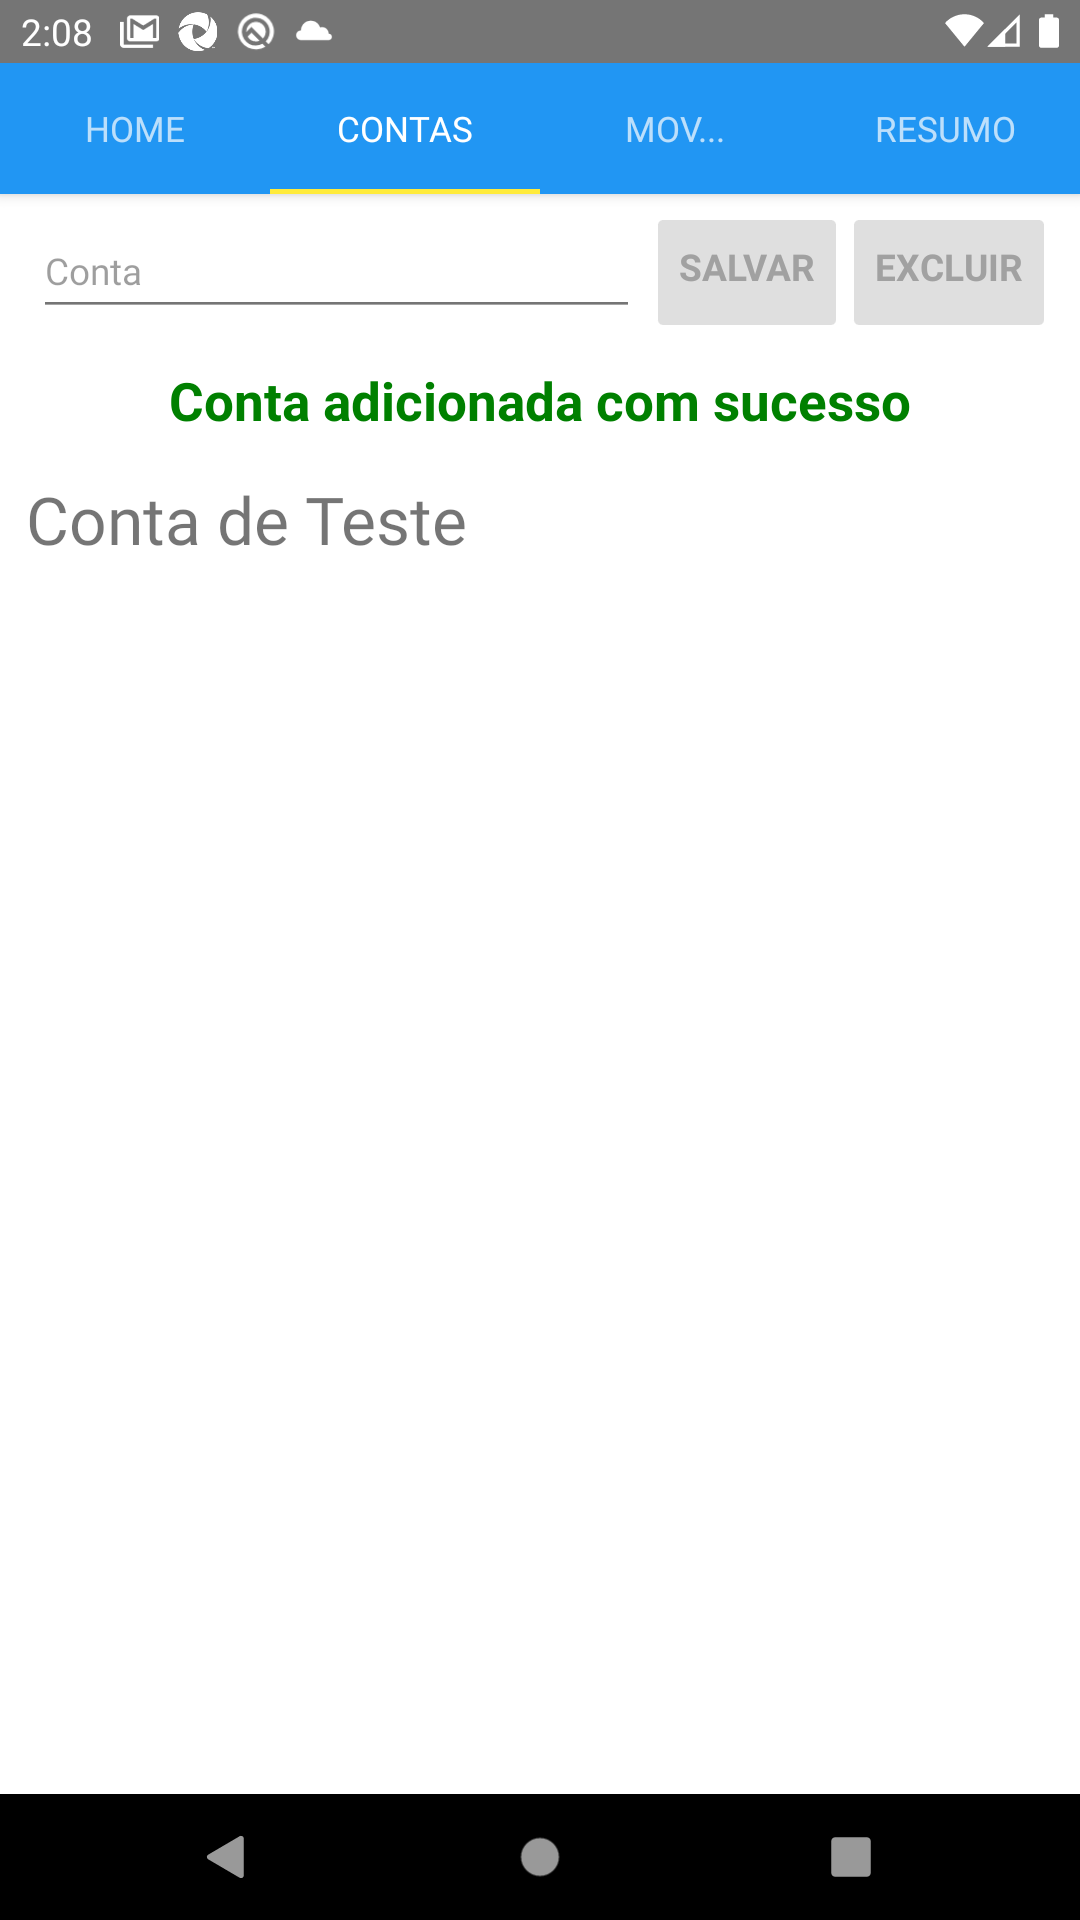
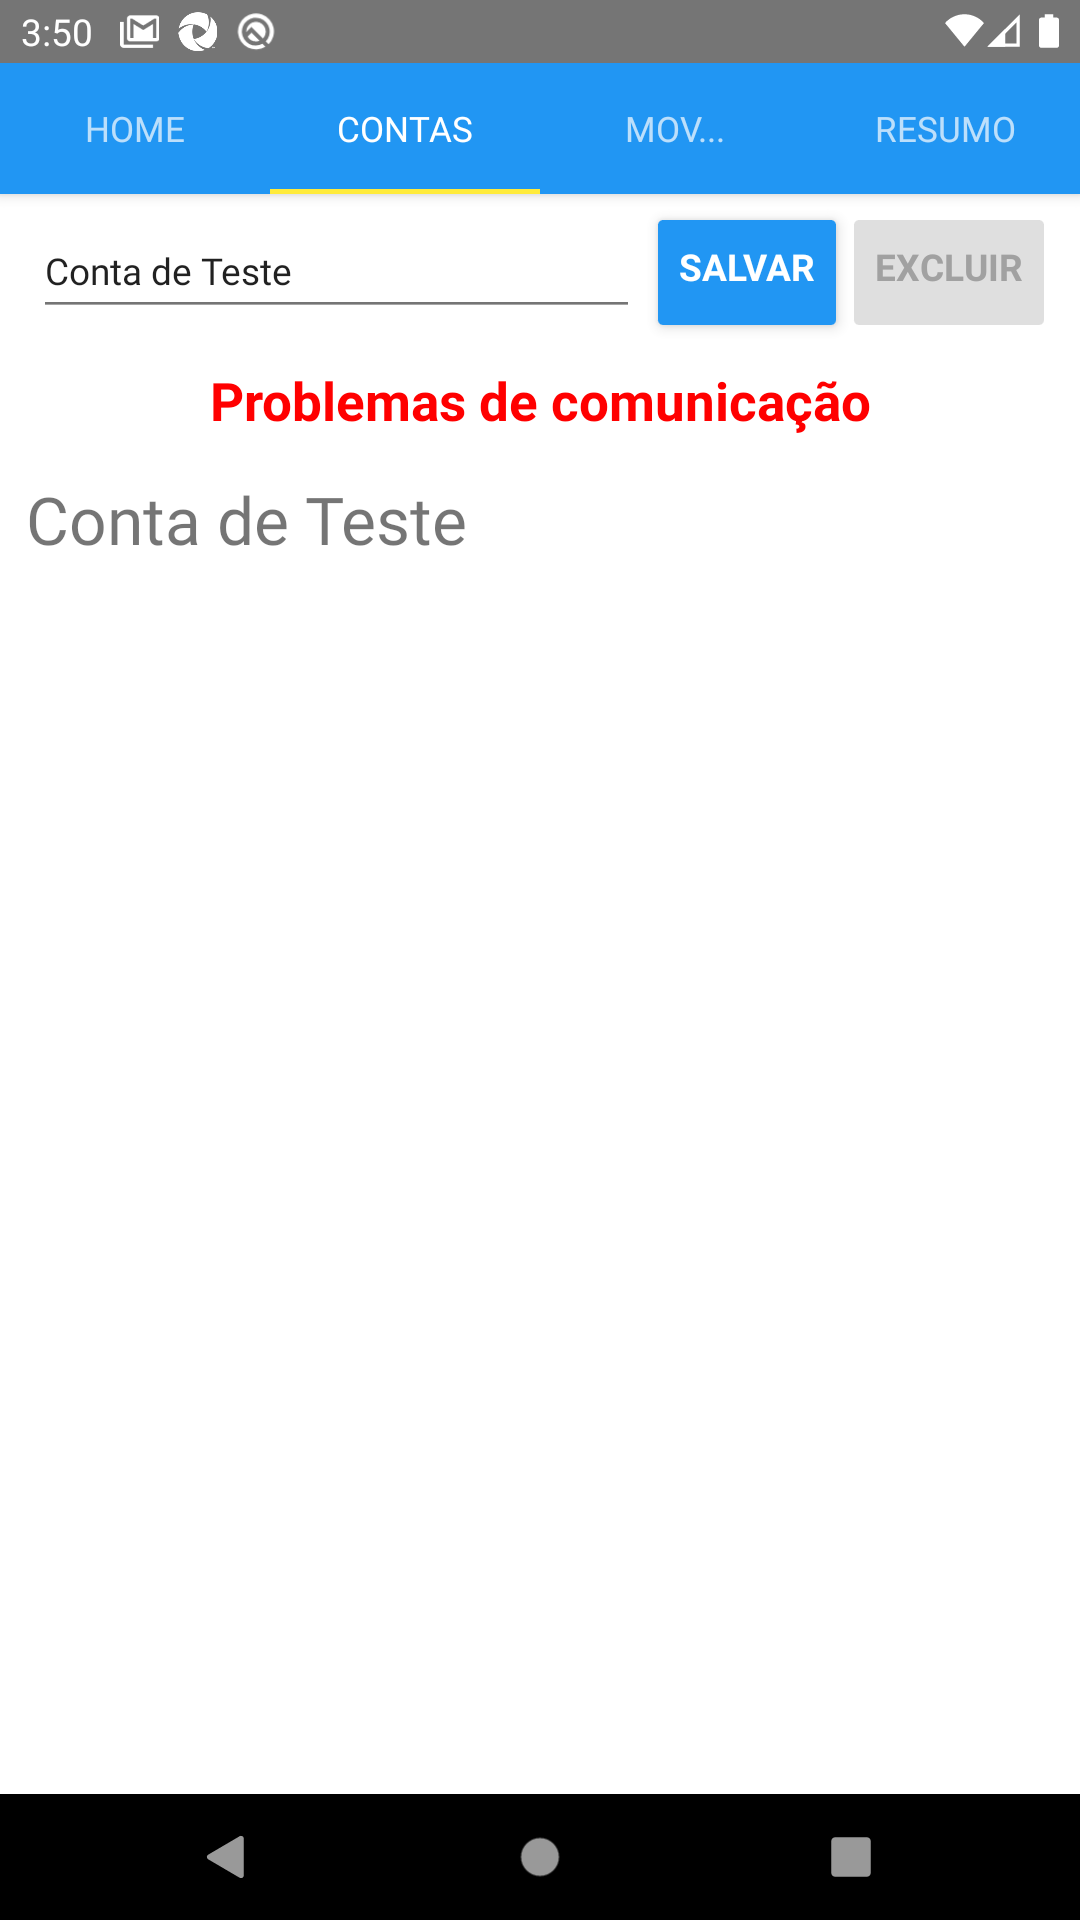
Aula: excluir conta

diff --git a/src/main/java/br/com/jonathan/appium/core/BasePage.java b/src/main/java/br/com/jonathan/appium/core/BasePage.java
@@ -11,6 +11,8 @@ import org.openqa.selenium.Dimension;
 
 import io.appium.java_client.MobileElement;
 import io.appium.java_client.TouchAction;
+import io.appium.java_client.android.AndroidTouchAction;
+import io.appium.java_client.touch.offset.ElementOption;
 import io.appium.java_client.touch.offset.PointOption;
 
 public class BasePage {
@@ -39,7 +41,7 @@ public class BasePage {
 		return getDriver().findElement(by).getAttribute("checked").equals("true");
 	}
 	
-	public boolean ExisteElementoPorTexto(String texto) {
+	public boolean existeElementoPorTexto(String texto) {
 		 List<MobileElement> elementos = getDriver().findElements(By.xpath("//*[@text='"+texto+"']"));
 		 
 		 return elementos.size() > 0;
@@ -102,5 +104,9 @@ public class BasePage {
 		int end_x = (int) (element.getSize().width * fim);
 		
 		new TouchAction(getDriver()).longPress(PointOption.point(start_x, y)).moveTo(PointOption.point(end_x, y)).release().perform();
+	}
+	
+	public void cliqueLongo(By by) {
+		new AndroidTouchAction(getDriver()).longPress(ElementOption.element(getDriver().findElement(by))).perform();
 	}
 }

diff --git a/src/main/java/br/com/jonathan/appium/test/SwipeTest.java b/src/main/java/br/com/jonathan/appium/test/SwipeTest.java
@@ -14,21 +14,21 @@ public class SwipeTest extends BaseTest {
 	public void deveRealizarSwipe() {
 		menu.acessarSwipe();
 		
-		Assert.assertTrue(menu.ExisteElementoPorTexto("a esquerda"));
+		Assert.assertTrue(menu.existeElementoPorTexto("a esquerda"));
 		
 		menu.swipeRigth();
 		
-		Assert.assertTrue(menu.ExisteElementoPorTexto("E veja se"));
+		Assert.assertTrue(menu.existeElementoPorTexto("E veja se"));
 		
 		menu.clicarPorTexto("›");
 		
-		Assert.assertTrue(menu.ExisteElementoPorTexto("Chegar até o fim!"));
+		Assert.assertTrue(menu.existeElementoPorTexto("Chegar até o fim!"));
 			
 		menu.swipeLeft();
 		
 		menu.clicarPorTexto("‹");
 		
-		Assert.assertTrue(menu.ExisteElementoPorTexto("a esquerda"));
+		Assert.assertTrue(menu.existeElementoPorTexto("a esquerda"));
 		
 	}
 }

diff --git a/src/main/java/br/com/jonathan/appium/test/SwipeElementTest.java b/src/main/java/br/com/jonathan/appium/test/SwipeElementTest.java
@@ -20,16 +20,16 @@ public class SwipeElementTest extends BaseTest {
 		
 		page.clicarBotaoMais();
 		
-		Assert.assertTrue(page.ExisteElementoPorTexto("Opção 1 (+)"));
+		Assert.assertTrue(page.existeElementoPorTexto("Opção 1 (+)"));
 		
 		page.swipeElementRight("Opção 4");
 		
 		page.clicarPorTexto("(-)");
 		
-		Assert.assertTrue(page.ExisteElementoPorTexto("Opção 4 (-)"));
+		Assert.assertTrue(page.existeElementoPorTexto("Opção 4 (-)"));
 		
 		page.swipeElementLeft("Opção 5 (-)");
 		
-		Assert.assertTrue(page.ExisteElementoPorTexto("Opção 5"));
+		Assert.assertTrue(page.existeElementoPorTexto("Opção 5"));
 	}
 }

diff --git a/src/main/java/br/com/jonathan/appium/test/FormularioTeste.java b/src/main/java/br/com/jonathan/appium/test/FormularioTeste.java
@@ -89,7 +89,7 @@ public class FormularioTeste extends BaseTest {
 		page.clicarPorTexto("01/01/2000");
 		page.clicarPorTexto("20");
 		page.clicarPorTexto("OK");
-		Assert.assertTrue(page.ExisteElementoPorTexto("20/01/2000"));
+		Assert.assertTrue(page.existeElementoPorTexto("20/01/2000"));
 	}
 	
 	@Test
@@ -98,7 +98,7 @@ public class FormularioTeste extends BaseTest {
 		page.clicar(MobileBy.AccessibilityId("10"));
 		page.clicar(MobileBy.AccessibilityId("40"));
 		page.clicarPorTexto("OK");
-		Assert.assertTrue(page.ExisteElementoPorTexto("10:40"));
+		Assert.assertTrue(page.existeElementoPorTexto("10:40"));
 	}
 	
 	@Test

diff --git a/src/main/java/br/com/jonathan/appium/page/CliquesPage.java b/src/main/java/br/com/jonathan/appium/page/CliquesPage.java
@@ -5,15 +5,11 @@ import static br.com.jonathan.appium.core.DriverFactory.getDriver;
 import org.openqa.selenium.By;
 
 import br.com.jonathan.appium.core.BasePage;
-import io.appium.java_client.android.AndroidTouchAction;
-import io.appium.java_client.touch.offset.ElementOption;
 
 public class CliquesPage extends BasePage {
 
 	public void cliqueLongo() {
-		new AndroidTouchAction(getDriver()).longPress(ElementOption.element(getDriver().findElement(By.xpath("//*[@text='Clique Longo']")))).perform();
-
-
+		cliqueLongo(By.xpath("//*[@text='Clique Longo']"));
 	}
 	
 	public String obterTextoCampo() {

diff --git a/src/main/java/br/com/jonathan/appium/test/SBTeste.java b/src/main/java/br/com/jonathan/appium/test/SBTeste.java
@@ -32,6 +32,21 @@ public class SBTeste extends BaseTest {
 		
 		contas.salvar();
 		
-		Assert.assertTrue(contas.ExisteElementoPorTexto("Conta adicionada com sucesso"));
+		Assert.assertTrue(contas.existeElementoPorTexto("Conta adicionada com sucesso"));
+	}
+	
+	@Test
+	public void deveExcluirConta(){
+		// entrar em contas
+		menuSB.acessarContas();
+		
+		//clique longo na conta
+		contas.selecionarConta("Conta de Teste");
+		
+		//ecluir
+		contas.excluir();
+		
+		//verificar mensagem
+		Assert.assertTrue(contas.existeElementoPorTexto("Conta excluída com sucesso"));
 	}
 }

diff --git a/src/main/java/br/com/jonathan/appium/page/AbasPage.java b/src/main/java/br/com/jonathan/appium/page/AbasPage.java
@@ -5,11 +5,11 @@ import br.com.jonathan.appium.core.BasePage;
 public class AbasPage extends BasePage {
 
 	public boolean isAba1() {
-		return ExisteElementoPorTexto("Este é o conteúdo da Aba 1");
+		return existeElementoPorTexto("Este é o conteúdo da Aba 1");
 	}
 	
 	public boolean isAba2() {
-		return ExisteElementoPorTexto("Este é o conteúdo da Aba 2");
+		return existeElementoPorTexto("Este é o conteúdo da Aba 2");
 	}
 	
 	public void selecionarAba2() {

diff --git a/src/main/java/br/com/jonathan/appium/test/AlertTeste.java b/src/main/java/br/com/jonathan/appium/test/AlertTeste.java
@@ -40,6 +40,6 @@ public class AlertTeste extends BaseTest{
 		esperar(1000);
 		page.clicarForaCaixa();
 		
-		Assert.assertFalse(page.ExisteElementoPorTexto("Pode clicar no OK ou fora da caixa para sair"));
+		Assert.assertFalse(page.existeElementoPorTexto("Pode clicar no OK ou fora da caixa para sair"));
 	}
 }

diff --git a/src/main/java/br/com/jonathan/appium/page/seuBarriga/SBContasPage.java b/src/main/java/br/com/jonathan/appium/page/seuBarriga/SBContasPage.java
@@ -13,4 +13,12 @@ public class SBContasPage extends BasePage {
 	public void salvar() {
 		clicarPorTexto("SALVAR");
 	}
+	
+	public void excluir(){
+		clicarPorTexto("EXCLUIR");
+	}
+	
+	public void selecionarConta(String conta) {
+		cliqueLongo(By.xpath("//*[@text='"+conta+"']"));
+	}
 }

diff --git a/src/main/java/br/com/jonathan/appium/page/SplashPage.java b/src/main/java/br/com/jonathan/appium/page/SplashPage.java
@@ -13,7 +13,7 @@ import br.com.jonathan.appium.core.BasePage;
 public class SplashPage extends BasePage {
 	
 	public boolean isTelaSplashVisivel() {
-		return ExisteElementoPorTexto("Splash!");
+		return existeElementoPorTexto("Splash!");
 	}
 	
 	public void aguardarSplashSumir() {

diff --git a/src/main/java/br/com/jonathan/appium/test/SplashTeste.java b/src/main/java/br/com/jonathan/appium/test/SplashTeste.java
@@ -20,6 +20,6 @@ public class SplashTeste extends BaseTest {
 		
 		page.aguardarSplashSumir();
 		
-		Assert.assertTrue(page.ExisteElementoPorTexto("Formulário"));
+		Assert.assertTrue(page.existeElementoPorTexto("Formulário"));
 	}
 }
